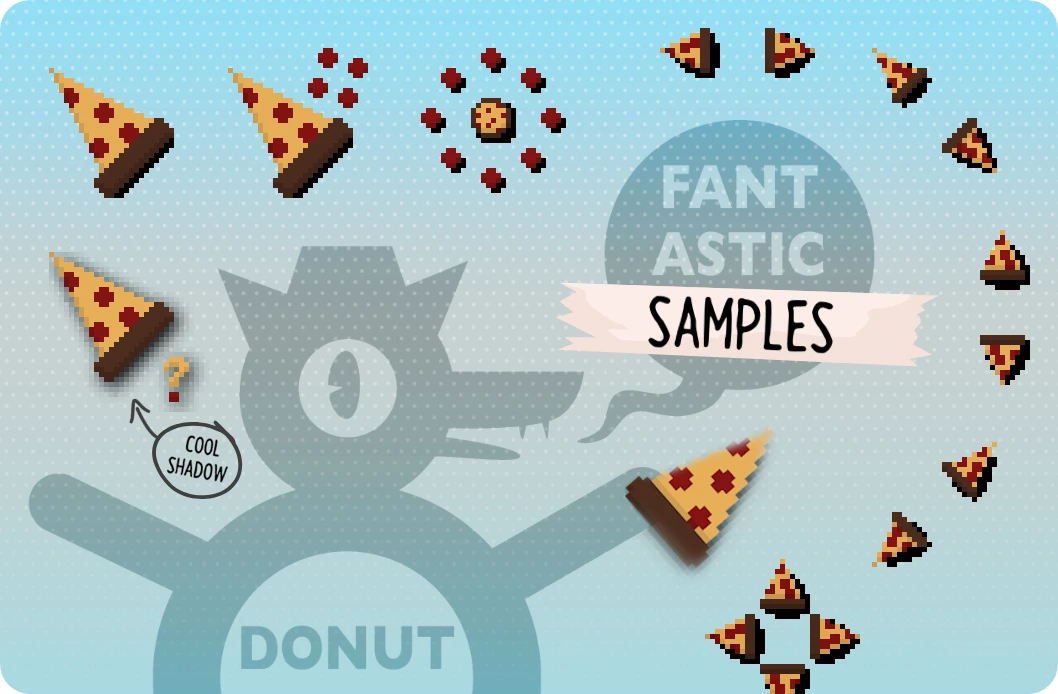
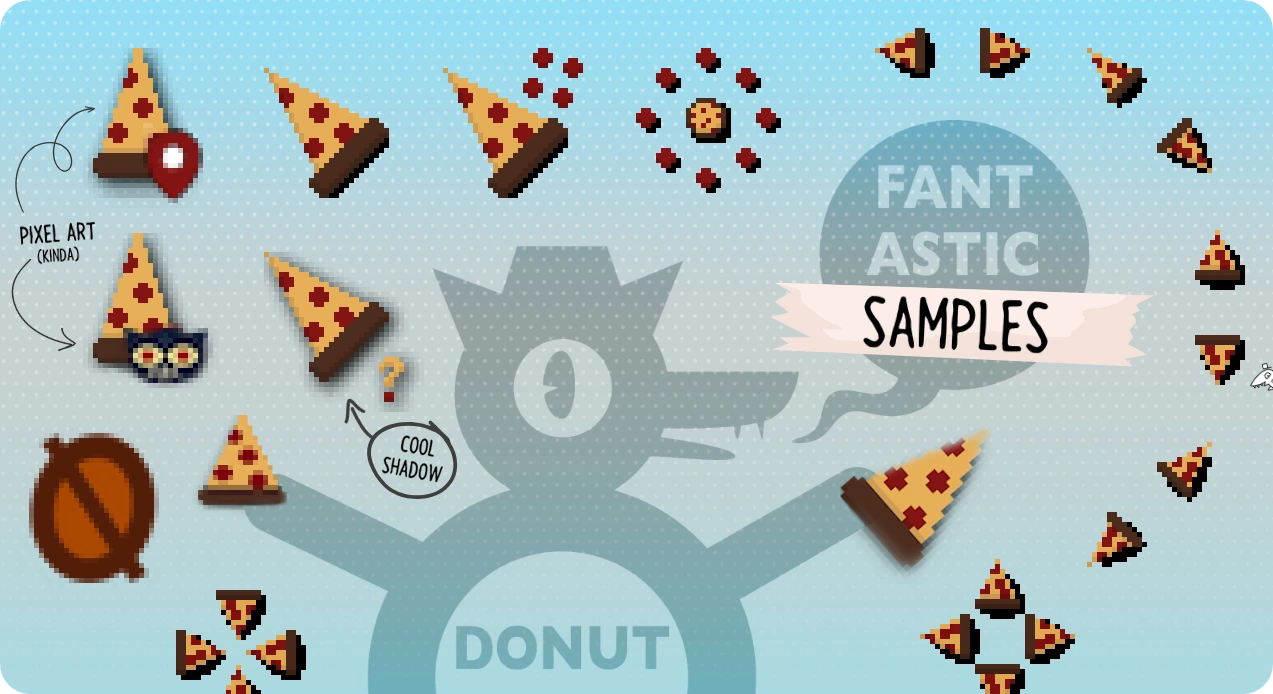
add more cursors
update readme

diff --git a/README.md b/README.md
@@ -12,8 +12,8 @@ All you trash mammals can now enjoy it without having to unlock the Windows' ass
 ## :bowl_with_spoon: Installation
 
 - [Download](https://github.com/kexiku/pizza/archive/refs/heads/main.zip) the project source
-- Locate the `Install.inf` file
-- Right click > 'Install'
+- Locate the `~Install.inf` file in the `src` folder
+- Right click > Install
 
 ## :plate_with_cutlery: Overview
 
